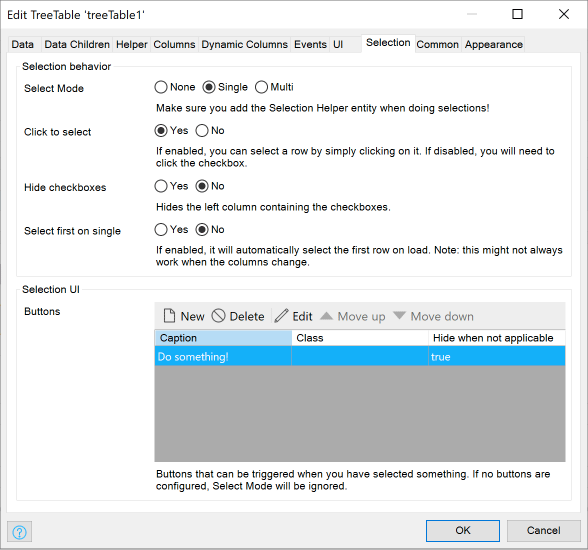
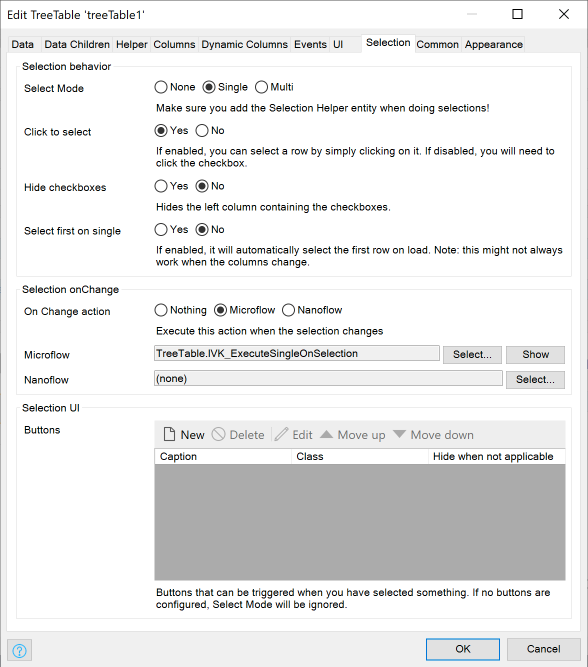
Version 1.5.0: On selection change actions (#8)
* Version 1.5.0: On selection change actions

diff --git a/src/MxTreeTable.tsx b/src/MxTreeTable.tsx
@@ -129,12 +129,18 @@ class MxTreeTable extends Component<MxTreeTableContainerProps, MxTreeTableState>
             selectMode,
             selectActionButtons,
             selectClickSelect,
-            selectHideCheckboxes
+            selectHideCheckboxes,
+            selectOnChangeAction
         } = this.props;
         const buttonBar = this.getButtons(selectActionButtons);
 
         let selectionMode = selectMode;
-        if (selectMode !== "none" && buttonBar === null && !(selectClickSelect && selectMode === "single")) {
+        if (
+            selectMode !== "none" &&
+            buttonBar === null &&
+            !(selectClickSelect && selectMode === "single") &&
+            selectOnChangeAction === "nothing"
+        ) {
             selectionMode = "none";
         }
 
@@ -212,7 +218,7 @@ class MxTreeTable extends Component<MxTreeTableContainerProps, MxTreeTableState>
         this.onDblClick = this.onDblClick.bind(this);
         this.onSelect = this.onSelect.bind(this);
         this.onSelectAction = this.onSelectAction.bind(this);
-        this.actionButtonClick = this.actionButtonClick.bind(this);
+        this.selectionAction = this.selectionAction.bind(this);
         this.createHelperObject = this.createHelperObject.bind(this);
 
         this.debug = this.debug.bind(this);
@@ -829,16 +835,21 @@ class MxTreeTable extends Component<MxTreeTableContainerProps, MxTreeTableState>
                 const newIds = ids.filter(id => currentIds.indexOf(id) === -1);
 
                 if (ids.length === 0 || newIds.length === 0) {
-                    this.setState({ selectedObjects: unTouched });
-                    this.onSelectAction();
+                    this.setState({ selectedObjects: unTouched }, () => {
+                        this.onSelectAction();
+                    });
                 } else {
                     getObjects(newIds)
                         .then(newObjects => {
                             const newObjs: mendix.lib.MxObject[] = newObjects || [];
-                            this.setState({
-                                selectedObjects: [...newObjs, ...unTouched]
-                            });
-                            this.onSelectAction();
+                            this.setState(
+                                {
+                                    selectedObjects: [...newObjs, ...unTouched]
+                                },
+                                () => {
+                                    this.onSelectAction();
+                                }
+                            );
                         })
                         .catch(err => {
                             throw err;
@@ -850,11 +861,28 @@ class MxTreeTable extends Component<MxTreeTableContainerProps, MxTreeTableState>
         }
     }
 
-    private onSelectAction(): void {
+    private async onSelectAction(): Promise<void> {
+        const { selectedObjects } = this.state;
+        const { selectOnChangeAction, selectOnChangeMicroflow, selectOnChangeNanoflow } = this.props;
+        this.debug("onSelectAction", selectedObjects.length);
+
         if (this.state.selectFirstOnSingle) {
             this.setState({
                 selectFirstOnSingle: false
             });
+        }
+
+        // When we do an onChange selection, chances are that you change the context object. In order to avoid re-rendering the table, we temporarily lift
+        // all subscriptions, then do the select Action, then reapply the selections. This can also be avoid by creating a helperSelection object and add this
+        // to your view, then changing that helper selection Object instead of the context object
+        if (selectOnChangeAction === "mf" && selectOnChangeMicroflow) {
+            this.clearSubscriptions();
+            await this.selectionAction(selectedObjects, selectOnChangeMicroflow, null);
+            this.resetSubscription();
+        } else if (selectOnChangeAction === "nf" && selectOnChangeNanoflow) {
+            this.clearSubscriptions();
+            await this.selectionAction(selectedObjects, null, selectOnChangeNanoflow);
+            this.resetSubscription();
         }
     }
 
@@ -921,9 +949,9 @@ class MxTreeTable extends Component<MxTreeTableContainerProps, MxTreeTableState>
 
                     if (selectedObjects.length > 0) {
                         if (selectABAction === "mf" && selectABMicroflow) {
-                            this.actionButtonClick(selectedObjects, selectABMicroflow, null);
+                            this.selectionAction(selectedObjects, selectABMicroflow, null);
                         } else if (selectABAction === "nf" && selectABNanoflow) {
-                            this.actionButtonClick(selectedObjects, null, selectABNanoflow);
+                            this.selectionAction(selectedObjects, null, selectABNanoflow);
                         }
                     }
                 };
@@ -938,7 +966,7 @@ class MxTreeTable extends Component<MxTreeTableContainerProps, MxTreeTableState>
         });
     }
 
-    private async actionButtonClick(
+    private async selectionAction(
         objects: mendix.lib.MxObject[],
         mf: string | null,
         nf: Nanoflow | null
@@ -955,9 +983,9 @@ class MxTreeTable extends Component<MxTreeTableContainerProps, MxTreeTableState>
         context.setContext(helperObject.getEntity(), helperObject.getGuid());
 
         if (mf !== null) {
-            executeMicroflow(mf, context, mxform);
+            return executeMicroflow(mf, context, mxform).then(() => {});
         } else if (nf !== null) {
-            executeNanoFlow(nf, context, mxform);
+            return executeNanoFlow(nf, context, mxform).then(() => {});
         }
     }
 

diff --git a/typings/MxTreeTableProps.d.ts b/typings/MxTreeTableProps.d.ts
@@ -14,6 +14,7 @@ interface CommonProps {
 type ClickOptions = "nothing" | "mf" | "nf" | "open";
 type DataSource = "xpath" | "mf" | "nf";
 type ActionButtonAction = "mf" | "nf";
+type OnChangeAction = "nothing" | "mf" | "nf";
 type ChildDataSource = "disabled" | "reference" | "microflow" | "nanoflow";
 export type SizeOption = "default" | "middle" | "small";
 export type SelectionMode = "none" | "single" | "multi";
@@ -84,7 +85,8 @@ export interface MxTreeTableContainerProps extends CommonProps {
     selectClickSelect: boolean;
     selectHideCheckboxes: boolean;
     selectSelectFirstOnSingle: boolean;
+    selectOnChangeAction: OnChangeAction;
+    selectOnChangeMicroflow: string;
+    selectOnChangeNanoflow: Nanoflow;
     selectActionButtons: ActionButtonProps[];
-    // selectMicroflow: string;
-    // selectNanoflow: Nanoflow;
 }

diff --git a/src/util/validation.ts b/src/util/validation.ts
@@ -74,7 +74,8 @@ export const validateProps = (
     if (
         (props.onClickAction !== "nothing" && props.onClickAction !== "open") ||
         (props.onDblClickAction !== "nothing" && props.onDblClickAction !== "open") ||
-        (props.selectMode !== "none" && props.selectActionButtons.length > 0)
+        (props.selectMode !== "none" && props.selectActionButtons.length > 0) ||
+        props.selectOnChangeAction !== "nothing"
     ) {
         if (!props.helperEntity) {
             message.push("For click/double click/selections a helper object needs to be configured");

diff --git a/README.md b/README.md
@@ -33,7 +33,7 @@ Show a tree-like structure in Mendix.
     - Nanoflow
 - Row classes
 - Row icons
-- Select row/rows
+- Select row/rows, execute on change/action button
 - Dynamic columns
 - Much more...
 
@@ -113,6 +113,7 @@ In order to get the attributes of your Node entity in your project, I encourage 
 - Just like a normal table, you can use selection to do things with the Nodes.
 - Configure buttons for a selection.
 - The microflow/nanoflows use the Helper object
+- Please note that when we use the Selection onChange, chances are that you will make a change to your context object (for example, set a selection reference/set). This would mean that the table re-renders, losing the selection. We circumvent this by temporarily lift the subscriptions (that will trigger when the context changes), execute the action, then reapply the subscriptions.
 
 ## Test-project
 
